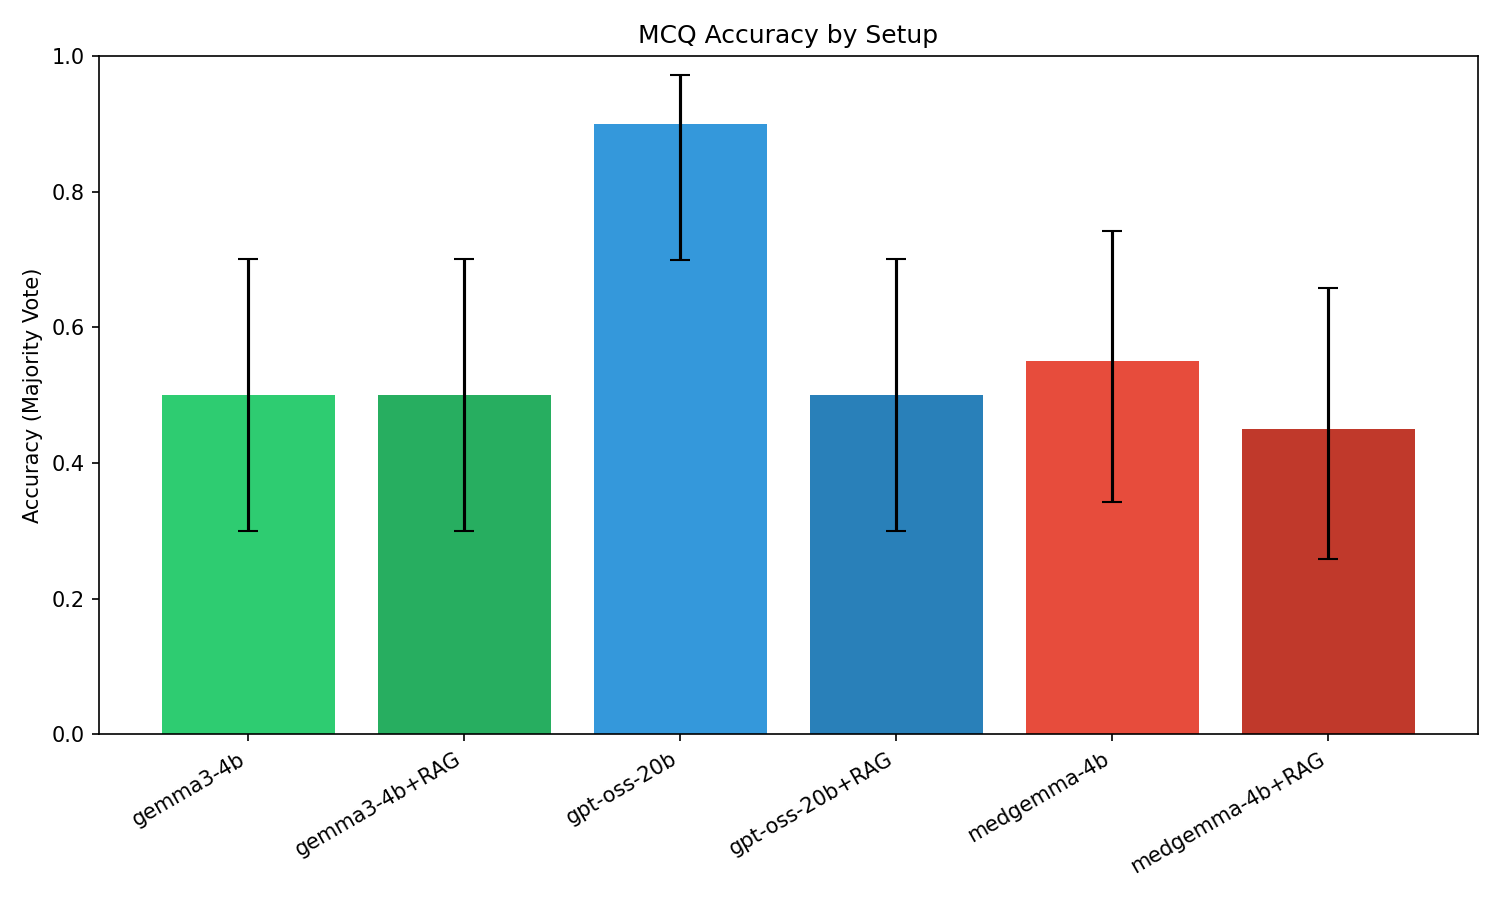
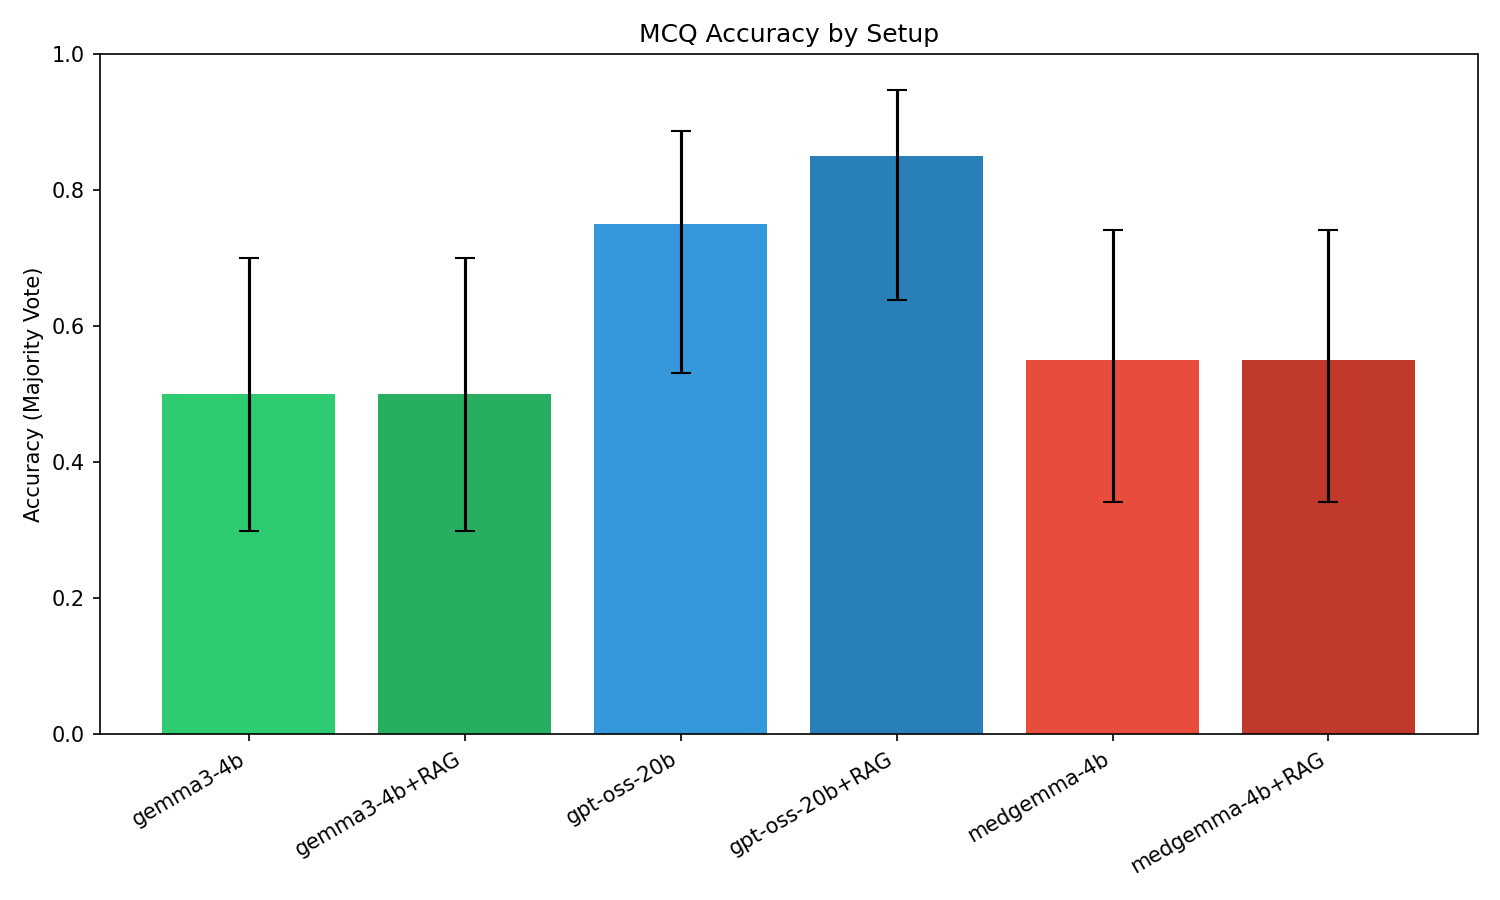
new exp fixed rag

diff --git a/results/report.md b/results/report.md
@@ -15,10 +15,10 @@ What is more crucial for medical multiple-choice QA accuracy: model size, domain
 |:----------------|-----------:|-----------:|-----------:|----------:|--------:|
 | gemma3-4b       |     0.5000 |     0.2993 |     0.7007 |        10 |      20 |
 | gemma3-4b+RAG   |     0.5000 |     0.2993 |     0.7007 |        10 |      20 |
-| gpt-oss-20b     |     0.9000 |     0.6990 |     0.9721 |        18 |      20 |
-| gpt-oss-20b+RAG |     0.5000 |     0.2993 |     0.7007 |        10 |      20 |
+| gpt-oss-20b     |     0.7500 |     0.5313 |     0.8881 |        15 |      20 |
+| gpt-oss-20b+RAG |     0.8500 |     0.6396 |     0.9476 |        17 |      20 |
 | medgemma-4b     |     0.5500 |     0.3421 |     0.7418 |        11 |      20 |
-| medgemma-4b+RAG |     0.4500 |     0.2582 |     0.6579 |         9 |      20 |
+| medgemma-4b+RAG |     0.5500 |     0.3421 |     0.7418 |        11 |      20 |
 
 ![Accuracy Comparison](accuracy_comparison.png)
 
@@ -28,10 +28,10 @@ What is more crucial for medical multiple-choice QA accuracy: model size, domain
 |:----------------|----------------:|
 | gemma3-4b       |          0.5000 |
 | gemma3-4b+RAG   |          0.5000 |
-| gpt-oss-20b     |          0.9000 |
-| gpt-oss-20b+RAG |          0.5000 |
+| gpt-oss-20b     |          0.7500 |
+| gpt-oss-20b+RAG |          0.8500 |
 | medgemma-4b     |          0.5500 |
-| medgemma-4b+RAG |          0.4500 |
+| medgemma-4b+RAG |          0.5500 |
 
 ## Consistency (Agreement Across Repetitions)
 
@@ -52,8 +52,8 @@ What is more crucial for medical multiple-choice QA accuracy: model size, domain
 |:----------------|---------------------:|
 | gemma3-4b       |               0.0000 |
 | gemma3-4b+RAG   |               0.0000 |
-| gpt-oss-20b     |               0.0500 |
-| gpt-oss-20b+RAG |               0.3500 |
+| gpt-oss-20b     |               0.2000 |
+| gpt-oss-20b+RAG |               0.1000 |
 | medgemma-4b     |               0.0000 |
 | medgemma-4b+RAG |               0.0000 |
 
@@ -61,21 +61,21 @@ What is more crucial for medical multiple-choice QA accuracy: model size, domain
 
 | setup_a         | setup_b         |   a_only_correct |   b_only_correct |   statistic |   p_value | significant   |
 |:----------------|:----------------|-----------------:|-----------------:|------------:|----------:|:--------------|
-| gemma3-4b       | gemma3-4b+RAG   |                2 |                2 |      0.2500 |    0.6171 | False         |
-| gemma3-4b       | gpt-oss-20b     |                0 |                8 |      6.1250 |    0.0133 | True          |
-| gemma3-4b       | gpt-oss-20b+RAG |                2 |                2 |      0.2500 |    0.6171 | False         |
+| gemma3-4b       | gemma3-4b+RAG   |                1 |                1 |      0.5000 |    0.4795 | False         |
+| gemma3-4b       | gpt-oss-20b     |                0 |                5 |      3.2000 |    0.0736 | False         |
+| gemma3-4b       | gpt-oss-20b+RAG |                0 |                7 |      5.1429 |    0.0233 | True          |
 | gemma3-4b       | medgemma-4b     |                2 |                3 |      0.0000 |    1.0000 | False         |
-| gemma3-4b       | medgemma-4b+RAG |                3 |                2 |      0.0000 |    1.0000 | False         |
-| gemma3-4b+RAG   | gpt-oss-20b     |                0 |                8 |      6.1250 |    0.0133 | True          |
-| gemma3-4b+RAG   | gpt-oss-20b+RAG |                3 |                3 |      0.1667 |    0.6831 | False         |
-| gemma3-4b+RAG   | medgemma-4b     |                3 |                4 |      0.0000 |    1.0000 | False         |
-| gemma3-4b+RAG   | medgemma-4b+RAG |                3 |                2 |      0.0000 |    1.0000 | False         |
-| gpt-oss-20b     | gpt-oss-20b+RAG |                8 |                0 |      6.1250 |    0.0133 | True          |
-| gpt-oss-20b     | medgemma-4b     |                7 |                0 |      5.1429 |    0.0233 | True          |
-| gpt-oss-20b     | medgemma-4b+RAG |                9 |                0 |      7.1111 |    0.0077 | True          |
-| gpt-oss-20b+RAG | medgemma-4b     |                2 |                3 |      0.0000 |    1.0000 | False         |
-| gpt-oss-20b+RAG | medgemma-4b+RAG |                2 |                1 |      0.0000 |    1.0000 | False         |
-| medgemma-4b     | medgemma-4b+RAG |                3 |                1 |      0.2500 |    0.6171 | False         |
+| gemma3-4b       | medgemma-4b+RAG |                2 |                3 |      0.0000 |    1.0000 | False         |
+| gemma3-4b+RAG   | gpt-oss-20b     |                0 |                5 |      3.2000 |    0.0736 | False         |
+| gemma3-4b+RAG   | gpt-oss-20b+RAG |                0 |                7 |      5.1429 |    0.0233 | True          |
+| gemma3-4b+RAG   | medgemma-4b     |                2 |                3 |      0.0000 |    1.0000 | False         |
+| gemma3-4b+RAG   | medgemma-4b+RAG |                1 |                2 |      0.0000 |    1.0000 | False         |
+| gpt-oss-20b     | gpt-oss-20b+RAG |                0 |                2 |      0.5000 |    0.4795 | False         |
+| gpt-oss-20b     | medgemma-4b     |                5 |                1 |      1.5000 |    0.2207 | False         |
+| gpt-oss-20b     | medgemma-4b+RAG |                5 |                1 |      1.5000 |    0.2207 | False         |
+| gpt-oss-20b+RAG | medgemma-4b     |                6 |                0 |      4.1667 |    0.0412 | True          |
+| gpt-oss-20b+RAG | medgemma-4b+RAG |                6 |                0 |      4.1667 |    0.0412 | True          |
+| medgemma-4b     | medgemma-4b+RAG |                1 |                1 |      0.5000 |    0.4795 | False         |
 
 ![Pairwise Significance](pairwise_significance.png)
 
@@ -83,6 +83,6 @@ What is more crucial for medical multiple-choice QA accuracy: model size, domain
 
 | setup_a     | setup_b         |   a_only_correct |   b_only_correct |   statistic |   p_value | significant   |
 |:------------|:----------------|-----------------:|-----------------:|------------:|----------:|:--------------|
-| gemma3-4b   | gemma3-4b+RAG   |                2 |                2 |      0.2500 |    0.6171 | False         |
-| gpt-oss-20b | gpt-oss-20b+RAG |                8 |                0 |      6.1250 |    0.0133 | True          |
-| medgemma-4b | medgemma-4b+RAG |                3 |                1 |      0.2500 |    0.6171 | False         |
+| gemma3-4b   | gemma3-4b+RAG   |                1 |                1 |      0.5000 |    0.4795 | False         |
+| gpt-oss-20b | gpt-oss-20b+RAG |                0 |                2 |      0.5000 |    0.4795 | False         |
+| medgemma-4b | medgemma-4b+RAG |                1 |                1 |      0.5000 |    0.4795 | False         |
